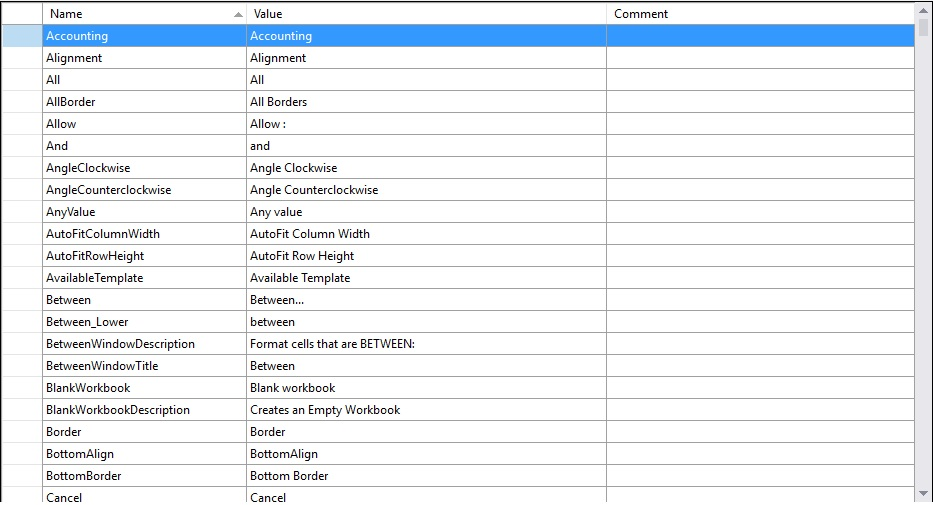
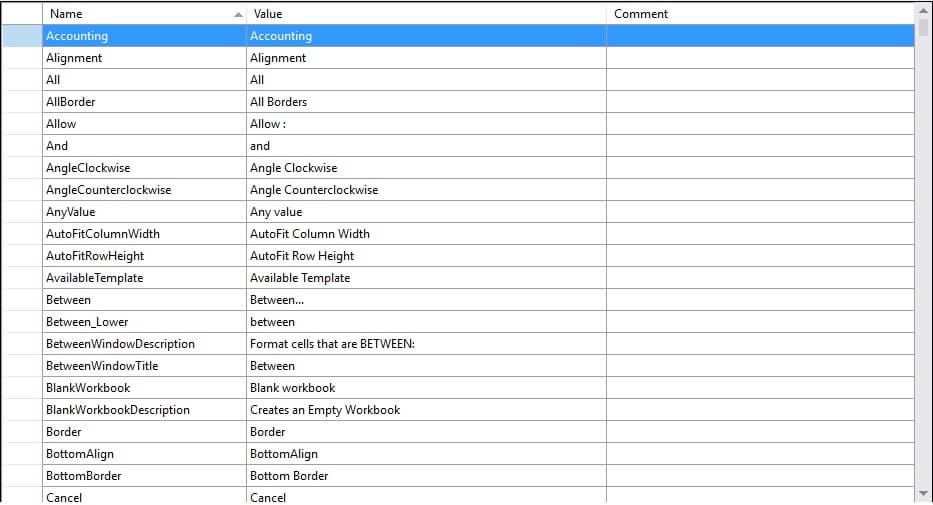
Alt text errors are fixed

diff --git a/wpf/SfSpreadsheet/localization.md b/wpf/SfSpreadsheet/localization.md
@@ -1,6 +1,6 @@
 ---
 layout: post
-title: Localization in SfSpreadsheet
+title: Localization in SfSpreadsheet | wpf | Syncfusion
 description: How to localize the SfSpreadsheet to any language settings
 platform: wpf
 control: SfSpreadsheet
@@ -41,16 +41,16 @@ The following steps show how to implement the localization in SfSpreadsheet,
 * Create Resx(resource) file under the 'Resources' folder and name it as Syncfusion.SfSpreadsheet.WPF.[Culture name].resx. 
   For example, Syncfusion.SfSpreadsheet.WPF.ja.resx for Japanese culture. 
 
-![](localization_images/Loc_Image1.JPG)
+![resource-file-creation](localization_images/Loc_Image1.JPG)
 
 * Add the resource key such as name and its corresponding localized value in Resource Designer of Syncfusion.SfSpreadsheet.WPF.ja.resx file.
   For your reference, you can download the Japanese("ja-JP") Resx file [here](https://github.com/syncfusion/wpf-demos/blob/master/SfSpreadsheet.WPF/Samples/Localization/CS/Resources/Syncfusion.SfSpreadsheet.WPF.ja.resx)
 
-![](localization_images/Loc_Image2.JPG)
+![adding-resource](localization_images/Loc_Image2.JPG)
 
 The following screenshot shows you the localization in SfSpreadsheet,
 
-![](localization_images/localization_img1.jpg)
+![localization](localization_images/localization_img1.jpg)
 
 ## Modifying the localized strings in Resource file
 
@@ -58,4 +58,4 @@ Users can modify the default localized strings in Resource file by adding the de
 
 Now, the default localized strings can be modified by changing the Name/Value pair in the Syncfusion.SfSpreadsheet.WPF.resx file.
 
-![](localization_images/Loc_Image3.jpg)
+![localized-sfspreadsheet](localization_images/Loc_Image3.jpg)
